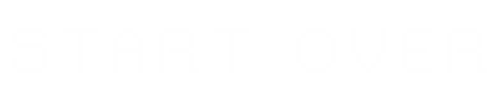
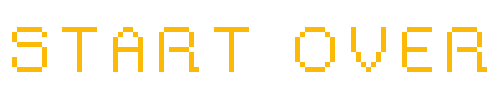
View results button converted to png

diff --git a/frontend/components/Playlist.js b/frontend/components/Playlist.js
@@ -25,6 +25,9 @@ import Background from '../assets/playlist.gif';
 // IMPORT START OVER TEXT IMAGE
 import StartOver from '../assets/startOverText.png'
 
+// IMPORT RESULTS TEXT IMAGE
+import Results from '../assets/viewResultsText.png'
+
 import Result from './Result.js'
 
 const { width, height } = Dimensions.get('window');
@@ -69,12 +72,9 @@ export default class Playlist extends React.Component {
       <View style={styles.container}>
         <StatusBar hidden={true} />
 
-        {/* <LinearGradient colors={this.props.backgroundColor} style={{ position: 'absolute', height: height, width: width }} /> */}
         <Image source={Background} style={{ position: 'absolute', height: height, width: width }}/>
 
-
-
-        <WebView source={{ uri: this.props.playlist }} style={{ marginTop: 35, marginBottom: 35, height: height, width: (width - 70) }} />
+        <WebView source={{ uri: this.props.playlist }} style={{ marginTop: 35, marginBottom: 30, height: height, width: (width - 70) }} />
 
         <Modal
           animationType="slide"
@@ -104,13 +104,12 @@ export default class Playlist extends React.Component {
           onPress={() => {
             this.setModalVisible(true);
           }} style={{ paddingBottom: 20 }}>
-          <Text style={styles.moodResultButton}>VIEW RESULTS</Text>
+          <Image source={Results} style={styles.results} />          
         </TouchableOpacity>
 
         <TouchableOpacity onPress={this._returnHome}>
           <Image source={StartOver} style={styles.startOver} />
         </TouchableOpacity>
-
 
       </View>
     );
@@ -123,6 +122,10 @@ const styles = StyleSheet.create({
     alignItems: 'center',
     justifyContent: 'center',
   },
+  results: {
+    height: 30,
+    width: 150,
+  },
   moodResultButton: {
     color: 'white',
     paddingHorizontal: 15,
@@ -132,10 +135,11 @@ const styles = StyleSheet.create({
     textAlign: 'center',
   },
   startOver: {
-    paddingHorizontal: 20,
     marginBottom: 30,
     height: 40,
     width: 200,
+    borderWidth: 2,
+    borderColor: '#fcb906',
   },
   tapToClose: {
     fontSize: 25,
